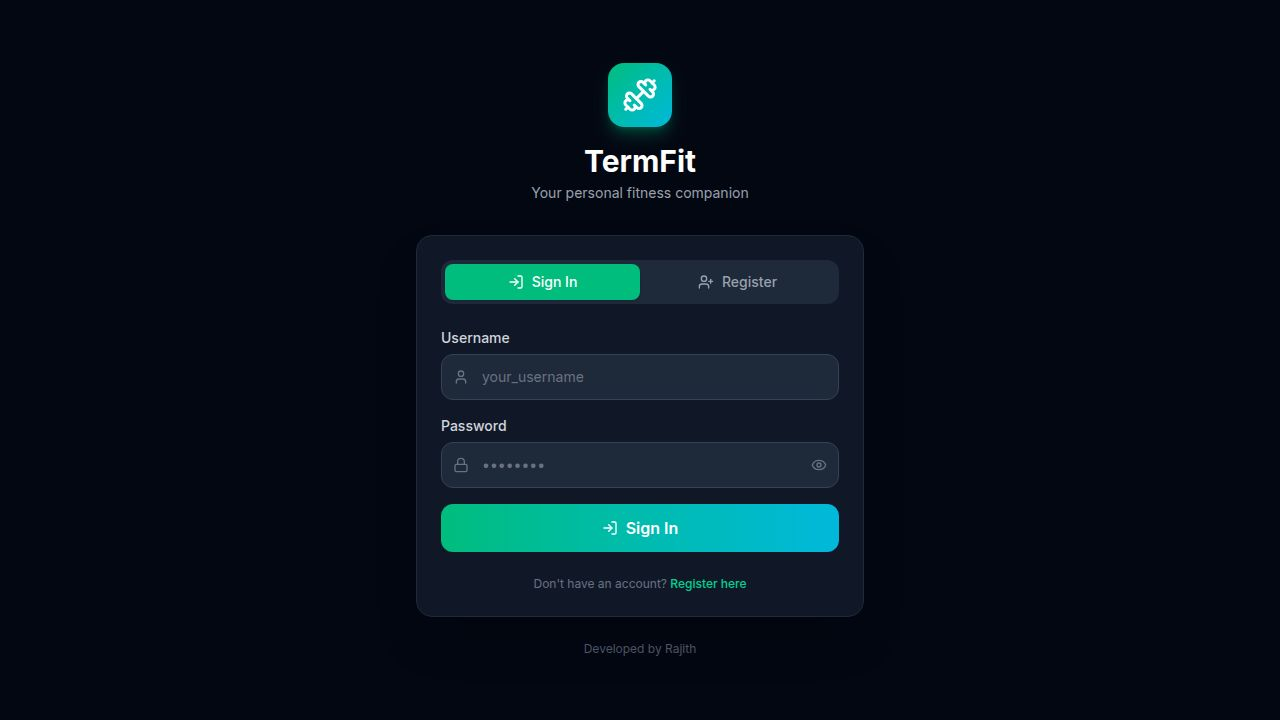
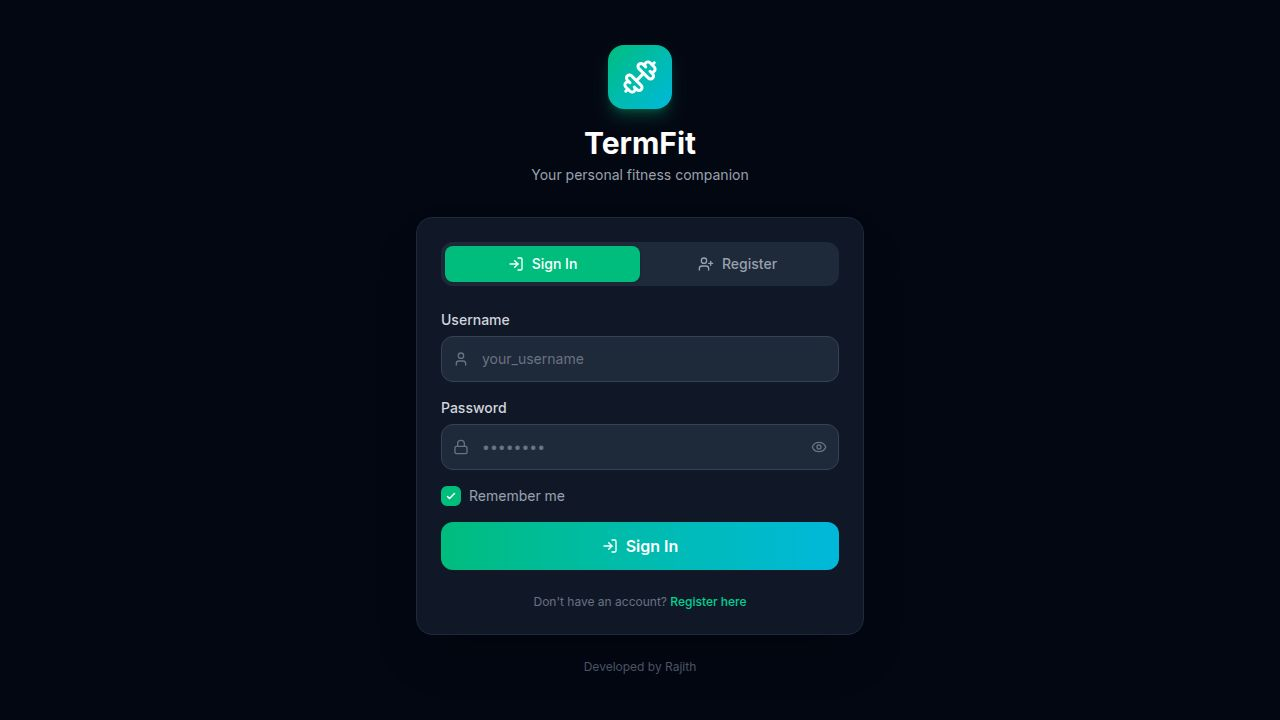
Prioritize Neon database connection over default when establishing database link
Update database connection logic in API to prefer NEON_DATABASE_URL, falling back to DATABASE_URL.

Replit-Commit-Author: Agent
Replit-Commit-Session-Id: e8c27313-8f6c-4a45-854d-45f474ccddb0
Replit-Commit-Checkpoint-Type: full_checkpoint
Replit-Commit-Event-Id: 916bd7b7-8a69-469b-961e-c31b2745d9e2
Replit-Commit-Screenshot-Url: https://storage.googleapis.com/screenshot-production-us-central1/d10e8e44-8691-4d8c-b535-823431ba256c/e8c27313-8f6c-4a45-854d-45f474ccddb0/h7ejSOB
Replit-Helium-Checkpoint-Created: true

Changed region(s): [[0.3438, 0.3361, 0.6562, 0.9472], [0.4062, 0.0611, 0.5938, 0.275], [0.5312, 0.3361, 0.625, 0.3972]]

diff --git a/api/index.ts b/api/index.ts
@@ -93,7 +93,7 @@ const dailyLogs = pgTable("daily_logs", {
 
 // ── DB ────────────────────────────────────────────────────────────────────────
 const { Pool } = pg;
-const pool = new Pool({ connectionString: process.env.DATABASE_URL });
+const pool = new Pool({ connectionString: process.env.NEON_DATABASE_URL || process.env.DATABASE_URL });
 const db = drizzle(pool);
 
 // ── Auth ──────────────────────────────────────────────────────────────────────